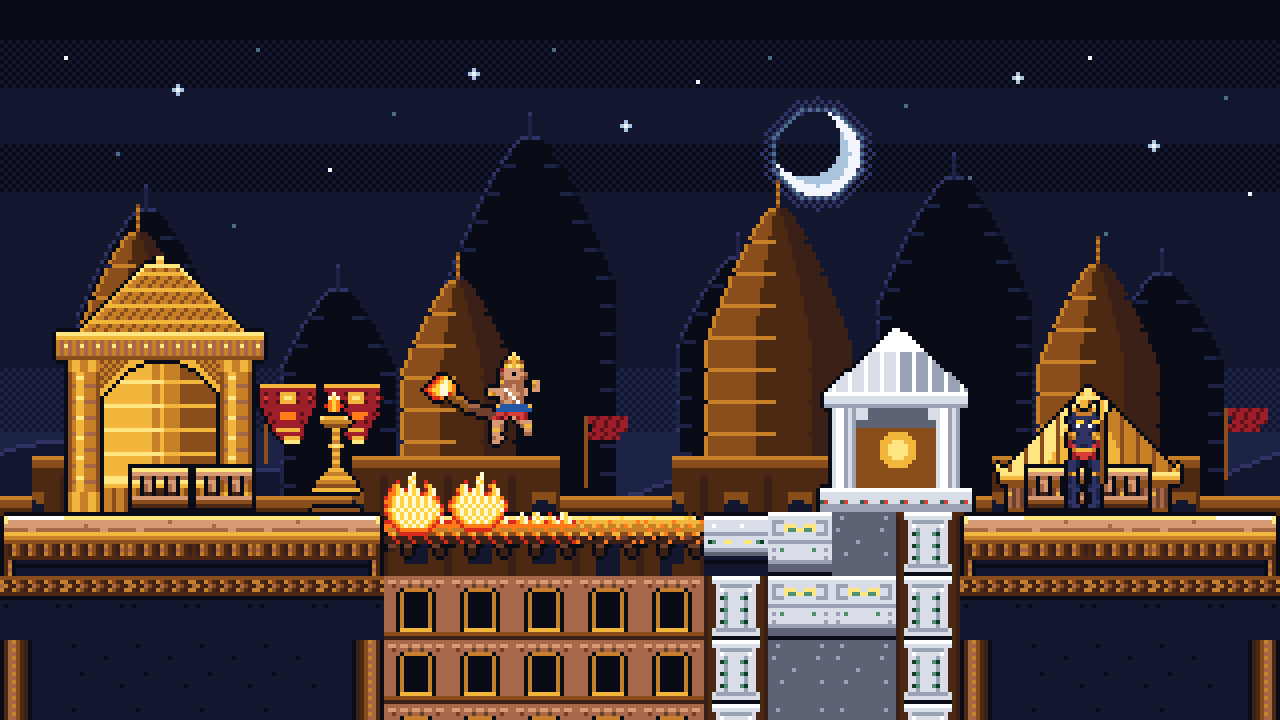
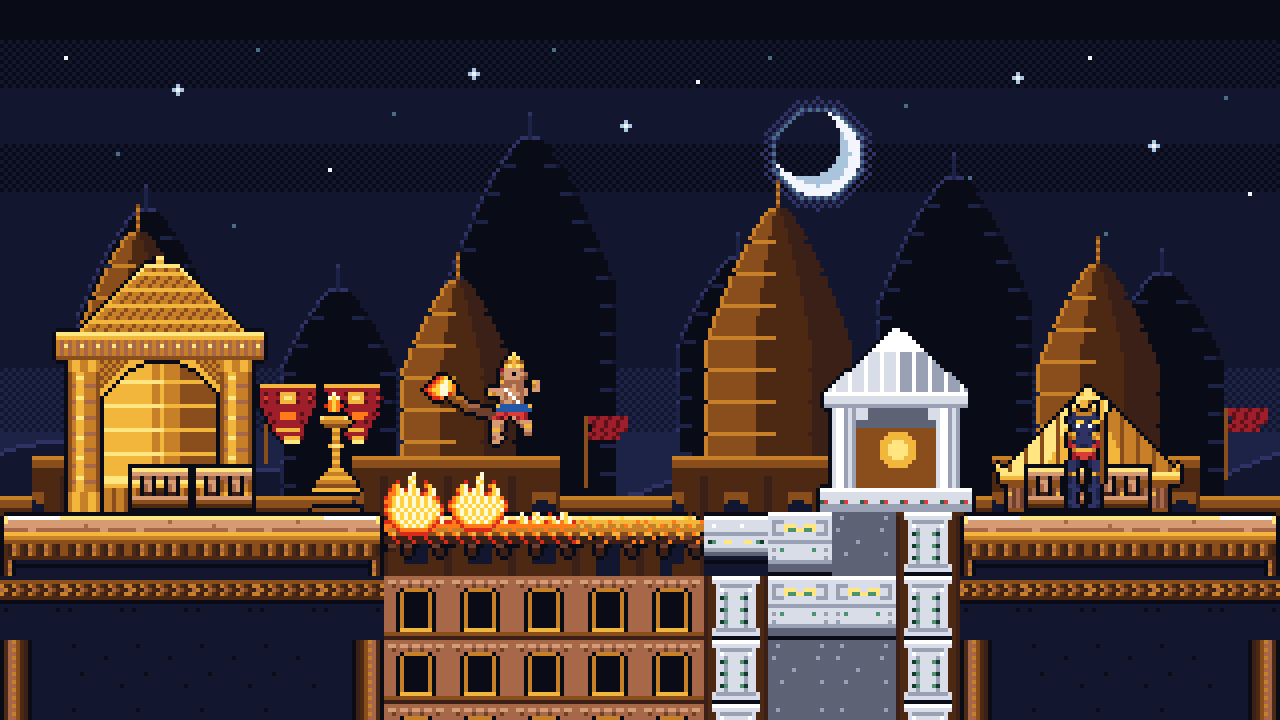
Fix gameplay platform architecture, grounded colonnades, seamless seams, and remove floating elements

Changed region(s): [[0.0, 0.7333, 0.3125, 0.8556], [0.75, 0.7333, 1.0, 0.8556]]

diff --git a/src/game/scenes/PlayScene.ts b/src/game/scenes/PlayScene.ts
@@ -140,23 +140,14 @@ export class PlayScene extends Phaser.Scene {
   private buildDecorativeLandmarks(): void {
     const grid = this.levelDef.grid;
 
-    // ── Depth 25-26: Golden Shikhara Temples & Curved Roof Domes on open un-roofed terraces ──
+    // ── Depth 15: Golden Shikhara Temples rising majestically behind rooftops (matching ref_gameplay.png) ──
     const shikharas: [number, number][] = [
-      [56, 10], [127, 10],
+      [21, 10], [135, 10],
     ];
     for (const [tx, ty] of shikharas) {
       this.add.image(tx * TILE_SIZE, ty * TILE_SIZE, 'props_lanka', 'props_lanka 8.aseprite')
         .setOrigin(0.5, 1)
-        .setDepth(25);
-    }
-
-    const roofDomes: [number, number][] = [
-      [66, 10], [143, 10],
-    ];
-    for (const [tx, ty] of roofDomes) {
-      this.add.image(tx * TILE_SIZE, ty * TILE_SIZE, 'props_lanka', 'props_lanka 9.aseprite')
-        .setOrigin(0.5, 1)
-        .setDepth(26);
+        .setDepth(15);
     }
 
     // ── Depth 28: Carved supporting sandstone pillars under raised WOOD_ROOF pavilions ──
@@ -166,7 +157,9 @@ export class PlayScene extends Phaser.Scene {
         const leftW = tx > 0 ? grid[ty][tx - 1] : 'EMPTY';
         const rightW = tx < this.levelDef.cols - 1 ? grid[ty][tx + 1] : 'EMPTY';
         const isEdge = leftW !== 'WOOD_ROOF' || rightW !== 'WOOD_ROOF';
-        if (!isEdge) continue;
+        // Support long pavilions with intermediate pillars every 4 tiles
+        const isSupport = isEdge || (tx % 4 === 0 && grid[ty + 1][tx] !== 'BANNER');
+        if (!isSupport) continue;
 
         // Place pillar down to solid STONE/SACRED floor below (or bottom of world)
         let floorTy = this.levelDef.rows;
@@ -189,6 +182,33 @@ export class PlayScene extends Phaser.Scene {
       }
     }
 
+    // ── Depth 38: Solid supporting palace colonnade & undercroft under ground-level WOOD_ROOF (row 10) ──
+    // Eliminates all floating roofs at cols 9-18, 130-132, 138-140 down to the bottom of the world
+    for (let tx = 0; tx < this.levelDef.cols; tx++) {
+      if (grid[10][tx] !== 'WOOD_ROOF') continue;
+      const leftW = tx > 0 ? grid[10][tx - 1] : 'EMPTY';
+      const rightW = tx < this.levelDef.cols - 1 ? grid[10][tx + 1] : 'EMPTY';
+      const isEdge = leftW !== 'WOOD_ROOF' || rightW !== 'WOOD_ROOF';
+
+      // Row 11: carved capital / arched window bay
+      const frame11 = isEdge ? 4 * 16 + 2 : (tx % 3 === 0 ? 8 : 4 * 16 + 4);
+      this.add.image(tx * TILE_SIZE, 11 * TILE_SIZE, 'tileset_lanka', frame11)
+        .setOrigin(0, 0)
+        .setDepth(38);
+
+      // Row 12: carved pillar column / recessed undercroft
+      const frame12 = isEdge ? 4 * 16 + 1 : 5;
+      this.add.image(tx * TILE_SIZE, 12 * TILE_SIZE, 'tileset_lanka', frame12)
+        .setOrigin(0, 0)
+        .setDepth(38);
+
+      // Row 13: carved sandstone plinth base
+      const frame13 = isEdge ? 4 * 16 + 0 : 5;
+      this.add.image(tx * TILE_SIZE, 13 * TILE_SIZE, 'tileset_lanka', frame13)
+        .setOrigin(0, 0)
+        .setDepth(38);
+    }
+
     // ── Depth 30 & 27: Torana Archways on open flat terraces & Stone Balustrade Railings ──
     const toranaPositions: [number, number][] = [
       [1, 11], [50, 10], [120, 10],
@@ -199,7 +219,7 @@ export class PlayScene extends Phaser.Scene {
         .setDepth(30);
     }
 
-    // Balustrade railings along open flat STONE terraces behind pillars & torches
+    // Balustrade railings along open flat STONE terraces (skipping open Torana doorways)
     for (let ty = 1; ty < this.levelDef.rows; ty++) {
       for (let tx = 6; tx < this.levelDef.cols - 5; tx++) {
         const mat = grid[ty][tx];
@@ -207,7 +227,9 @@ export class PlayScene extends Phaser.Scene {
         const left = grid[ty][tx - 1];
         const right = grid[ty][tx + 1];
         if (mat === 'STONE' && above === 'EMPTY' && left === 'STONE' && right === 'STONE') {
-          if (tx < 96 || tx > 119) {
+          // Keep Ashoka sacred grove open and leave Torana arch passages unobstructed
+          const isToranaPassage = toranaPositions.some(([ax, ay]) => ay === ty && tx >= ax && tx <= ax + 3);
+          if ((tx < 96 || tx > 119) && !isToranaPassage) {
             this.add.image(tx * TILE_SIZE, (ty - 1) * TILE_SIZE, 'tileset_lanka', 9)
               .setOrigin(0, 0)
               .setDepth(27);
@@ -216,9 +238,9 @@ export class PlayScene extends Phaser.Scene {
       }
     }
 
-    // Standing brass diyas firmly seated on clear flat STONE terraces (never clipping or floating)
+    // Standing brass diyas firmly seated on clear flat STONE terraces (never clipping or floating in pits)
     const diyaPositions: [number, number][] = [
-      [6, 11], [22, 10], [44, 12], [58, 10], [61, 12], [78, 12], [81, 12], [89, 10], [124, 10], [147, 10], [158, 10],
+      [6, 11], [22, 10], [34, 10], [54, 10], [70, 10], [88, 10], [124, 10], [147, 10], [158, 10],
     ];
     for (const [tx, ty] of diyaPositions) {
       const diya = this.add.sprite(tx * TILE_SIZE + 8, ty * TILE_SIZE, 'props_lanka')
@@ -364,10 +386,13 @@ export class PlayScene extends Phaser.Scene {
 
     this.updateParticles(frameDt);
 
-    // Parallax sync
+    // Parallax sync with natural vertical anchoring
     const camX = this.cameras.main.scrollX;
+    const camY = this.cameras.main.scrollY;
     this.bgFarSpires.tilePositionX = camX * 0.15;
     this.bgMidPalace.tilePositionX = camX * 0.35;
+    this.bgFarSpires.tilePositionY = (camY - 44) * 0.12;
+    this.bgMidPalace.tilePositionY = (camY - 44) * 0.25;
 
     // Subtle warm fire glow & dynamic ambient fire bed scaled by active BURNING tiles
     const activeBurning = this.flameOverlays.size;

diff --git a/scripts/revamp_art.py b/scripts/revamp_art.py
@@ -287,16 +287,16 @@ def build_tileset_lanka() -> None:
     # 0: Left terrace corner (paved cream-sandstone top + gold edge + carved left border)
     put_tile(0, 0, [
         ".OOOOOOOOOOOOOOO",
-        "OSHHHHHHHHHHHHHH",
+        "OSHHHHHHHHHHHHHS",
         "OSAAAAAAAAAAAAAA",
         "OAAAAAAAAAAAAAAA",
         "OaaaaaaAAaaaaaaa",
         "OBBBBBBBBBBBBBBB",
         "OGGGGGGGGGGGGGGG",
         "Oggggggggggggggg",
-        "OdwGgdwGgdwGgdwG",
-        "Odwagdwagdwagdwa",
-        "OdwGgdwGgdwGgdwG",
+        "OdwGgdwGgdwGgdwg",
+        "Odwagdwagdwagdwg",
+        "OdwGgdwGgdwGgdwg",
         "Oddddddddddddddd",
         "OdaO111111111111",
         "OdGOOOOOOOOOOOOO",
@@ -313,9 +313,9 @@ def build_tileset_lanka() -> None:
         "BBBBBBBBBBBBBBBB",
         "GGGGGGGGGGGGGGGG",
         "gggggggggggggggg",
-        "dwGgdwGgdwGgdwGg",
-        "dwagdwagdwagdwag",
-        "dwGgdwGgdwGgdwGg",
+        "gdwGgdwGgdwGgdwg",
+        "gdwagdwagdwagdwg",
+        "gdwGgdwGgdwGgdwg",
         "dddddddddddddddd",
         "1111111111111111",
         "OOOOOOOOOOOOOOOO",
@@ -332,9 +332,9 @@ def build_tileset_lanka() -> None:
         "BBBBBBBBBBBBBBBB",
         "GGGGGGGGGGGGGGGG",
         "gggggggggggggggg",
-        "GgdwGgdwGgdwGgdw",
-        "agdwagdwagdwagdw",
-        "GgdwGgdwGgdwGgdw",
+        "gdwGgdwGgdwGgdwg",
+        "gdwagdwagdwagdwg",
+        "gdwGgdwGgdwGgdwg",
         "dddddddddddddddd",
         "1111111111111111",
         "OOOOOOOOOOOOOOOO",
@@ -344,16 +344,16 @@ def build_tileset_lanka() -> None:
     # 3: Right terrace corner
     put_tile(3, 0, [
         "OOOOOOOOOOOOOOO.",
-        "HHHHHHHHHHHHHHSO",
+        "SHHHHHHHHHHHHHSO",
         "AAAAAAAAAAAAAASO",
         "AAAAAAAAAAAAAAAO",
         "aaaaaaaAAaaaaaaO",
         "BBBBBBBBBBBBBBBO",
         "GGGGGGGGGGGGGGGO",
         "gggggggggggggggO",
-        "GgdwGgdwGgdwGgdO",
-        "agdwagdwagdwagdO",
-        "GgdwGgdwGgdwGgdO",
+        "gdwGgdwGgdwGgdwO",
+        "gdwagdwagdwagdwO",
+        "gdwGgdwGgdwGgdwO",
         "dddddddddddddddO",
         "111111111111OadO",
         "OOOOOOOOOOOOOGdO",
@@ -362,6 +362,7 @@ def build_tileset_lanka() -> None:
     ])
     # 4: Continuous carved scroll/lotus frieze band (upper palace wall / terrace border)
     put_tile(4, 0, [
+        "1111111111111111",
         "gggggggggggggggg",
         "GdwGgdwGgdwGgdwG",
         "aGdwagdwagdwagdw",
@@ -370,7 +371,6 @@ def build_tileset_lanka() -> None:
         "OOOOOOOOOOOOOOOO",
         "1111111111111111",
         "1O111111111111O1",
-        "1111111111111111",
         "1111111111111111",
         "1111111111111111",
         "1111111111111111",
